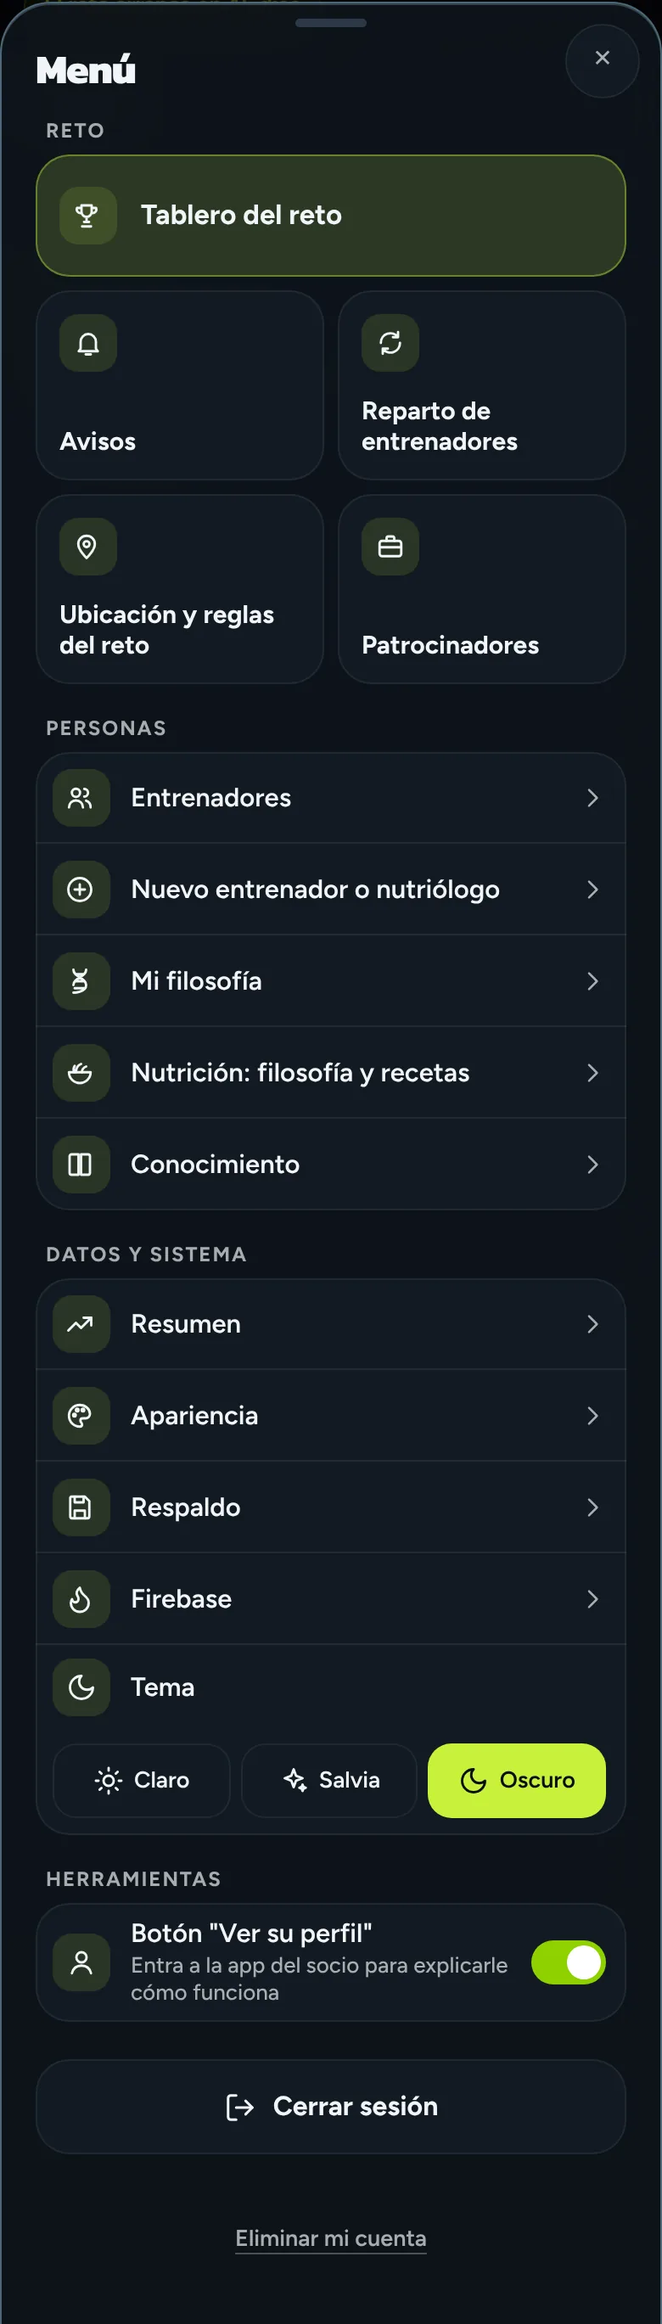
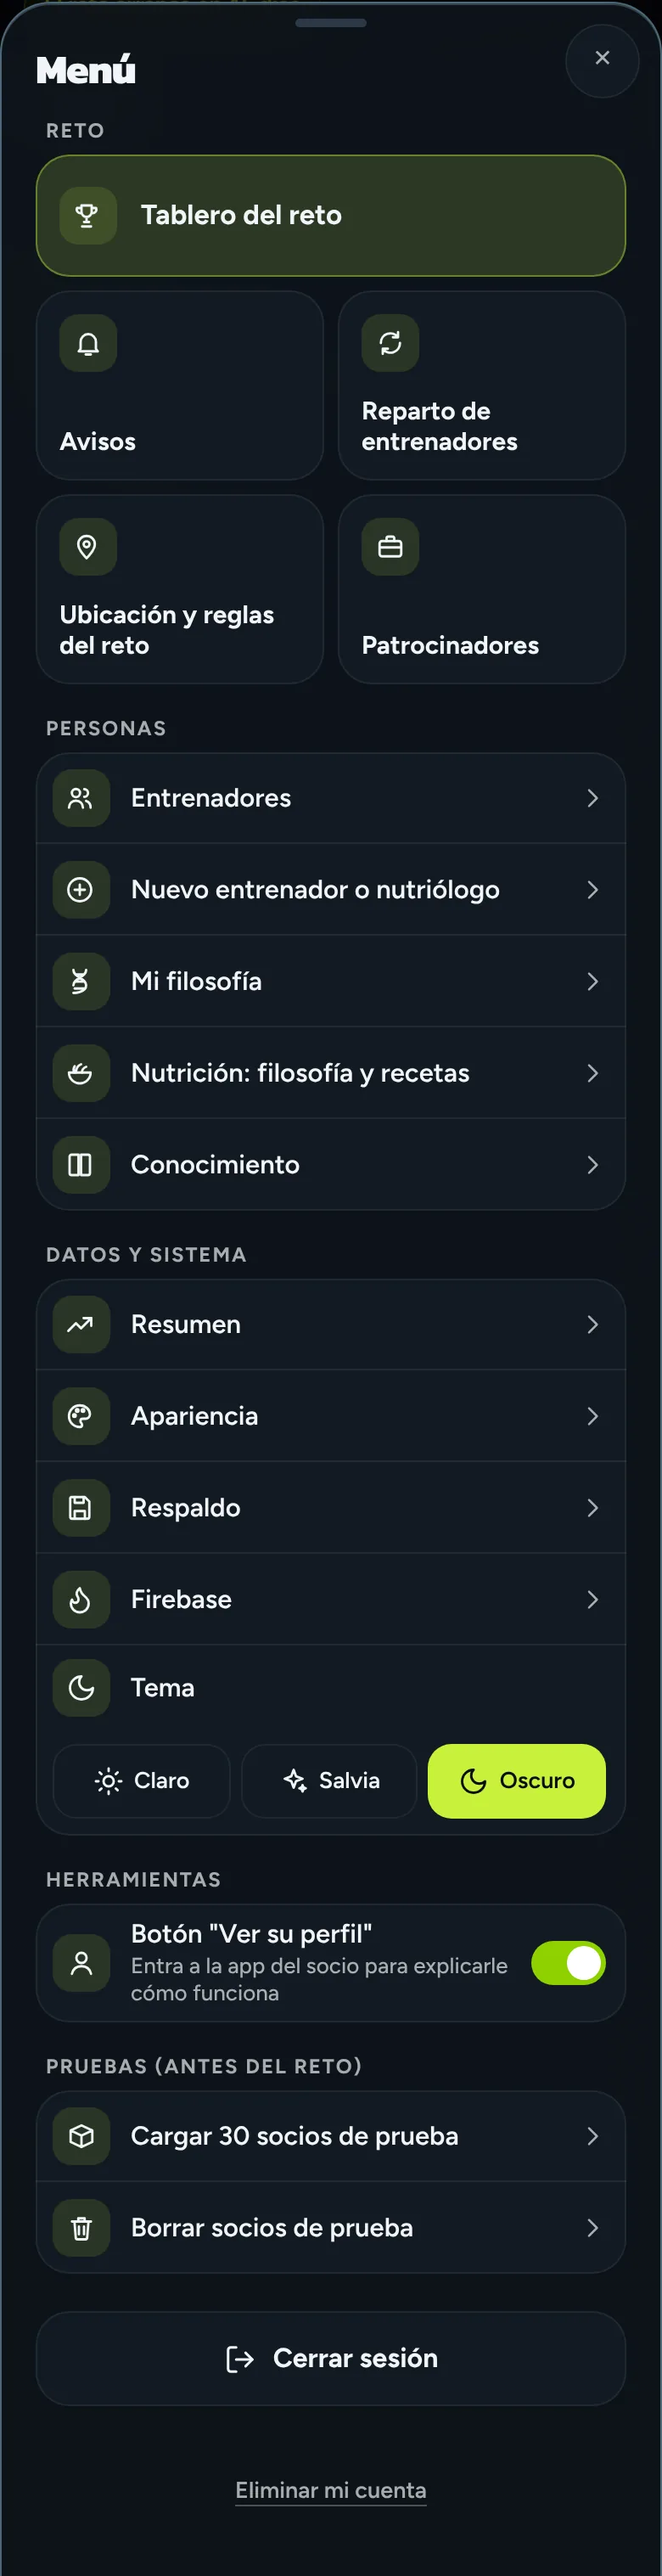
Maqueta menú: capturas con el grupo Pruebas visible
Claude-Session: https://claude.ai/code/session_01YU3tcYaMrH2QGHWSnPyYXZ

diff --git a/docs/maquetas/menu-staff/index.html b/docs/maquetas/menu-staff/index.html
@@ -21,7 +21,7 @@ footer{padding:26px 0 40px;color:#7F8F89;font-size:13px}
 <h2>Antes y después</h2>
 <div class="row">
 <figure><img src="img/antes-dark-390.webp" alt="Menú actual" width="780" height="2872" loading="lazy"><figcaption>Actual</figcaption></figure>
-<figure><img src="img/despues-dark-390.webp" alt="Menú propuesto" width="780" height="2706" loading="lazy"><figcaption><b>Propuesto</b></figcaption></figure>
+<figure><img src="img/despues-dark-390.webp" alt="Menú propuesto" width="780" height="3034" loading="lazy"><figcaption><b>Propuesto</b></figcaption></figure>
 </div>
 <h2>Qué cambia</h2>
 <ul>
@@ -33,8 +33,8 @@ footer{padding:26px 0 40px;color:#7F8F89;font-size:13px}
 </ul>
 <h2>Salvia y tableta</h2>
 <div class="row">
-<figure><img src="img/despues-light2-390.webp" alt="Menú propuesto en Salvia" width="780" height="2706" loading="lazy"><figcaption>Salvia</figcaption></figure>
-<figure><img src="img/despues-dark-800.webp" alt="Menú propuesto en tableta" width="1260" height="2470" loading="lazy"><figcaption>Tableta</figcaption></figure>
+<figure><img src="img/despues-light2-390.webp" alt="Menú propuesto en Salvia" width="780" height="3034" loading="lazy"><figcaption>Salvia</figcaption></figure>
+<figure><img src="img/despues-dark-800.webp" alt="Menú propuesto en tableta" width="1120" height="2798" loading="lazy"><figcaption>Tableta</figcaption></figure>
 </div>
-<footer>Capturas de la app con la cuenta del director (las opciones visibles dependen del rol: un entrenador ve menos). Las opciones de Pruebas aparecen como lista cuando están disponibles.</footer>
+<footer>Capturas de la app con la cuenta del director (las opciones visibles dependen del rol: un entrenador ve menos). Cargar y Borrar socios de prueba quedan en su grupo Pruebas, antes de la cuenta.</footer>
 </div></body></html>
